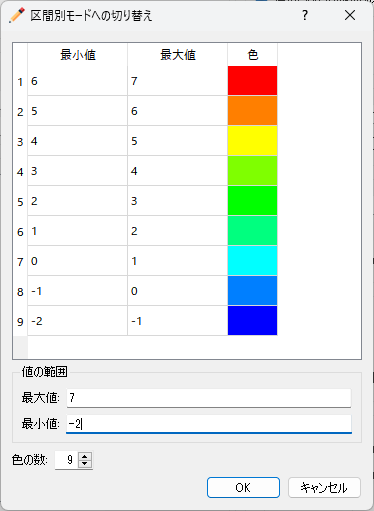
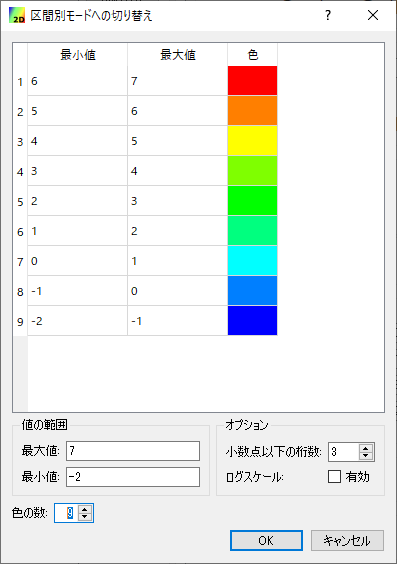
最新版の情報に更新

diff --git a/source/02/03_color_function.rst b/source/02/03_color_function.rst
@@ -3,6 +3,10 @@
 カラーマップ機能
 =======================
 
+.. contents:: 
+   :depth: 3
+   :local:
+
 概要
 ------------
 
@@ -11,8 +15,11 @@ iRIC では、値に基づいて色を変えて表示する機能が、様々な
 
 この節では、カラーマップ機能の利用法について説明します。
 
+
 基本的な使い方
 ------------------
+
+カラーマップを表示する値が実数の場合と整数の場合にわけて説明します。
 
 .. _sec_colormap_basic_real:
 
@@ -30,42 +37,62 @@ iRIC では、値に基づいて色を変えて表示する機能が、様々な
 
 設定項目について以下で説明します。
 
-プリセット
-   あらかじめ定義されたカラーマップ設定をコンボボックスから読み込みます。
-
-   以下のフォルダに保存された設定ファイルから拡張子 (.cmsetting) を除いた文字列のリストが候補として表示されます。コンボボックスで項目を選択すると、選択したファイルから設定がインポートされます。
-
-   * colormaps (iRICのインストーラに同梱された設定)
-   * private/colormaps (ユーザが保存した設定)
-
 値と色の関係
+^^^^^^^^^^^^^^^^^^^^^^^^^
    以下のいずれかから選択します。
 
    * **値の範囲に合わせて自動調整**: 「値の範囲」の「最大値」と「最小値」を指定すると、その下の「表示色」において「色」に対応する「値」が自動で調整されます。
    * **手動で設定**: 「値の範囲」の設定項目がなくなり、「表示色」で色に対応する値を手動で設定します。
 
 値の範囲
+^^^^^^^^^^^^^^^^^^^^^^^^^
    表示色における値の最小値、最大値を設定します。「値と色の関係」として「値の範囲に合わせて自動調整」を選択している時のみ表示されます。
-
-   「自動」をチェックすると、最小値、最大値は、データの値の範囲に自動で設定されます。
+   「自動」をチェックすると、最小値、最大値は、タイムステップ毎のデータの値の範囲に自動で設定されます。
 
 表示色
+^^^^^^^^^^^^^^^^^^^^^^^^^
    値と色の対応関係を指定します。
 
+追加
++++++++++++++++++++++++++
+   値と色の対応関係を追加します。
+
+削除
++++++++++++++++++++++++++
+   選択している値と色の対応関係を削除します。(複数選択可)
+
+色の反転
++++++++++++++++++++++++++
+   値と色の関係の色の順序が反転します。
+
+均等割
++++++++++++++++++++++++++
+   値の最大値と最小値を、値と色の関係の数で等分する値を与えます。
+
+   .. figure:: images/equal_division.png
+      :width: 300pt
+
+      均等割
+
 最小値以下を描画
++++++++++++++++++++++++++
    チェックを外すと、表示色における最小値以下の領域は描画されなくなります。
 
 最大値以上を描画
++++++++++++++++++++++++++
    チェックを外すと、表示色における最大値以上の領域は描画されなくなります。
 
 区間別モードに切り替え
+^^^^^^^^^^^^^^^^^^^^^^^^^
    表示色設定を「区間別モード」に切り替えます。
 
    ボタンを押すと、 :numref:`color_setting_switch_to_discrete_dialog` に示す
-   ダイアログが表示されます。最小値、最大値、色の数を指定すると、
+   ダイアログが表示されます。最小値、最大値、小数点以下の桁数、色の数を指定すると、
    :numref:`image_color_setting_dialog_real_discrete` に示すようにダイアログが
    変化し、値の区間ごとに色を指定するモードになります。区間別モードになるとこのボタンは
    「グラデーションモードに切り替え」に変化します。
+   :numref:`color_setting_switch_to_discrete_dialog` に示すダイアログで「ログスケール」のチェックボックスにチェックを入れると最小値から最大値の範囲をログスケールで色分け出来ます。
+
 
    グラデーションモードと区間別モードそれぞれでの値の表示例を
    :numref:`image_color_example_gradation` と
@@ -100,19 +127,15 @@ iRIC では、値に基づいて色を変えて表示する機能が、様々な
    実数値の表示例 (区間別モード)
 
 インポート・エクスポート
+^^^^^^^^^^^^^^^^^^^^^^^^^
    設定内容をファイルからインポートしたりエクスポートしたりします。
 
-   エクスポートする際は、 iRIC がインストールされたフォルダの下の private/colormaps フォルダに保存することを推奨します。ここに保存すると、「プリセット」から簡単に呼び出せるようになります。
-
 凡例設定
+^^^^^^^^^^^^^^^^^^^^^^^^^
    凡例の表示に関する設定を行います。
 
    表示
-      以下のいずれかを指定します。
-
-      * **選択されている時のみ**: オブジェクトブラウザで該当する項目が選択されている時のみ、凡例を表示します。
-      * **常に**: 常に凡例を表示します。
-      * **表示しない**: 常に凡例を非表示にします。
+      チェックを入れると凡例を表示します。
    
    向き
       凡例の向きを横・縦から指定します。横向き、縦向きの凡例の例をそれぞれ :numref:`color_setting_legend_horizontal` 、 :numref:`color_setting_legend_vertical` に示します。
@@ -130,6 +153,35 @@ iRIC では、値に基づいて色を変えて表示する機能が、様々な
    
    サイズと位置
       凡例を指定するサイズと位置を指定します。「位置」のラジオボタンにより、凡例の表示位置を、左上、上、右上など8つのいずれかから指定できます。
+   
+   バーの幅
+      カラーバーの幅を指定できます。「自動」にチェックをいれると、凡例の幅に対して自動で設定されます。
+   
+   整列
+      タイトル、カラーバーの整列方法を選択できます。
+
+コンター線の描写
+^^^^^^^^^^^^^^^^^^^^^^^^^
+   コンター線の描写のチェックボックスにチェックを入れると等高線表示になります。
+
+   線の幅
+      コンター線の太さをピクセル単位で指定できます。
+   
+   コンター線を表示する値と分割数
+      コンター線の値と分割数は以下の2パターンから選択できます。線の色はどちらも「表示色」で競っていした色が使用されます。
+
+      * **カラーマップの値を使用**: 「表示色」で設定されている値と色を使用してコンター線を表示します。
+      * **分割数を指定**: 分割数を指定して「表示色」で設定されている最小値と最大値を当分割した値でコンター線を表示します。
+
+半透明
+^^^^^^^^^^^^^^^^^^^^^^^^^
+   チェックボックスにチェックを入れるとスライダーで指定した透過度でカラーマップを表示します。
+
+設定の保存・キャンセル・適用
+^^^^^^^^^^^^^^^^^^^^^^^^^^^^^^^^
+   * **保存**: 設定内容を保存・適用して設定画面を閉じます。
+   * **キャンセル**: 変更したスカラー設定を破棄して設定画面を閉じます。「適用」で反映していた内容も破棄されます。
+   * **適用**: 設定内容の保存をせず、設定画面を開いたまま設定内容を適用します。
 
 .. _color_setting_legend_horizontal:
 
@@ -162,14 +214,17 @@ iRIC では、値に基づいて色を変えて表示する機能が、様々な
 設定項目について以下で説明します。
 
 表示色
+^^^^^^^^^^^^^^^^^^^^^^^^^
    値と色の対応関係を指定します。
    
    「透明」をチェックすると、ポリゴンなどは枠線のみが表示され、塗りつぶし領域は透明になります。
 
 インポート・エクスポート
+^^^^^^^^^^^^^^^^^^^^^^^^^
    設定内容をファイルからインポートしたりエクスポートしたりします。
 
 凡例設定
+^^^^^^^^^^^^^^^^^^^^^^^^^
    凡例の表示に関する設定を行います。
 
    表示
@@ -190,3 +245,106 @@ iRIC では、値に基づいて色を変えて表示する機能が、様々な
    
    サイズと位置
       凡例を指定するサイズと位置を指定します。「位置」のラジオボタンにより、凡例の表示位置を、左上、上、右上など8つのいずれかから指定できます。
+   
+   バーの幅
+      カラーバーの幅を指定できます。「自動」にチェックをいれると、凡例の幅に対して自動で設定されます。
+   
+   整列
+      タイトル、カラーバーの整列方法を選択できます。
+
+コンター線の描写
+^^^^^^^^^^^^^^^^^^^^^^^^^
+   コンター線の描写のチェックボックスにチェックを入れると等高線表示になります。
+
+   線の幅
+      コンター線の太さをピクセル単位で指定できます。
+   
+   コンター線を表示する値と分割数
+      コンター線の値と分割数は以下の2パターンから選択できます。線の色はどちらも「表示色」で競っていした色が使用されます。
+
+      * **カラーマップの値を使用**: 「表示色」で設定されている値と色を使用してコンター線を表示します。
+      * **分割数を指定**: 分割数を指定して「表示色」で設定されている最小値と最大値を当分割した値でコンター線を表示します。
+
+半透明
+^^^^^^^^^^^^^^^^^^^^^^^^^
+   チェックボックスにチェックを入れるとスライダーで指定した透過度でカラーマップを表示します。
+
+設定の保存・キャンセル・適用
+^^^^^^^^^^^^^^^^^^^^^^^^^^^^^^^^
+   * **保存**: 設定内容を保存・適用して設定画面を閉じます。
+   * **キャンセル**: 変更したスカラー設定を破棄して設定画面を閉じます。「適用」で反映していた内容も破棄されます。
+   * **適用**: 設定内容の保存をせず、設定画面を開いたまま設定内容を適用します。
+
+インポート・エクスポート
+---------------------------------
+カラーマップの設定内容をファイルからインポート・エクスポートできます。
+
+インポート
+~~~~~~~~~~~~~~~~~~~
+
+インポートの方法はモードから選択できます。
+
+   * **標準設定から選択**: 標準設定に追加されている設定項目から選択します。
+   * **ファイルを選択**: 任意の場所に保存された設定ファイルを指定して設定を読み込みます。
+
+標準設定から選択
+^^^^^^^^^^^^^^^^^^^^^^^^^
+標準選択モードのダイアログを :numref:`image_color_import_dialog_standard` に示す。
+
+.. _image_color_import_dialog_standard:
+
+.. figure:: images/color_import_dialog_standard.png
+   :width: 600pt
+
+   インポートダイアログ(標準設定から選択)
+
+設定項目を以下で説明します。
+
+   標準設定
+      標準設定として追加されている設定ファイルを選択できます。設定ファイルの選択、フォルダの展開等はキーボードの矢印キーでも行なえます。
+
+      パブリック
+         iRIC がインストールされたフォルダの下のcolormapsフォルダの中の設定ファイルがサブフォルダの構造ごと表示されます。
+         これらの設定ファイルはiRICインストール時にデフォルトでインストールされます。
+      
+      プライベート
+         iRIC がインストールされたフォルダの下のprivate/colormpasフォルダの中の設定ファイルがサブフォルダの構造ごと表示されます。
+         これらの設定ファイルはユーザーが任意に追加するものです。
+
+         追加の設定ファイルを `こちら <https://i-ric.org/download/colormapsettingfiles/>`_ からダウンロードできます。
+
+         .. note::
+            private/colormpasがない場合は作成してください。
+
+   インポートする属性
+      設定ファイルからインポートする属性を選択できます。インポートしたい属性のチェックボックスにチェックを入れて下さい。
+
+   プレビュー
+      標準設定で選択した設定ファイルをインポートする際のプレビューが表示されます。
+
+ファイルを選択
+^^^^^^^^^^^^^^^^^^^^^^^^^
+ファイルを選択モードのダイアログを :numref:`image_color_import_dialog_standard` に示す。
+
+.. _image_color_import_dialog_select_file:
+
+.. figure:: images/color_import_dialog_select_file.png
+   :width: 600pt
+
+   インポートダイアログ(ファイルを選択)
+
+設定項目を以下で説明します。
+
+   ファイル
+      「...」ボタンを押すと現れるファイル選択ダイアログから任意の場所に保存した設定ファイル( `*.cmsetting` )を指定できます。
+
+   インポートする属性
+      設定ファイルからインポートする属性を選択できます。インポートしたい属性のチェックボックスにチェックを入れて下さい。
+
+   プレビュー
+      指定した設定ファイルをインポートする際のプレビューが表示されます。
+
+エクスポート
+~~~~~~~~~~~~~~~~~~~
+現在の設定を設定ファイル( `*.cmsetting` )として出力できます。
+iRIC がインストールされたフォルダの下のprivate/colormpasフォルダ以下に保存しておくことで、インポート時に標準設定の一覧に追加されます。
